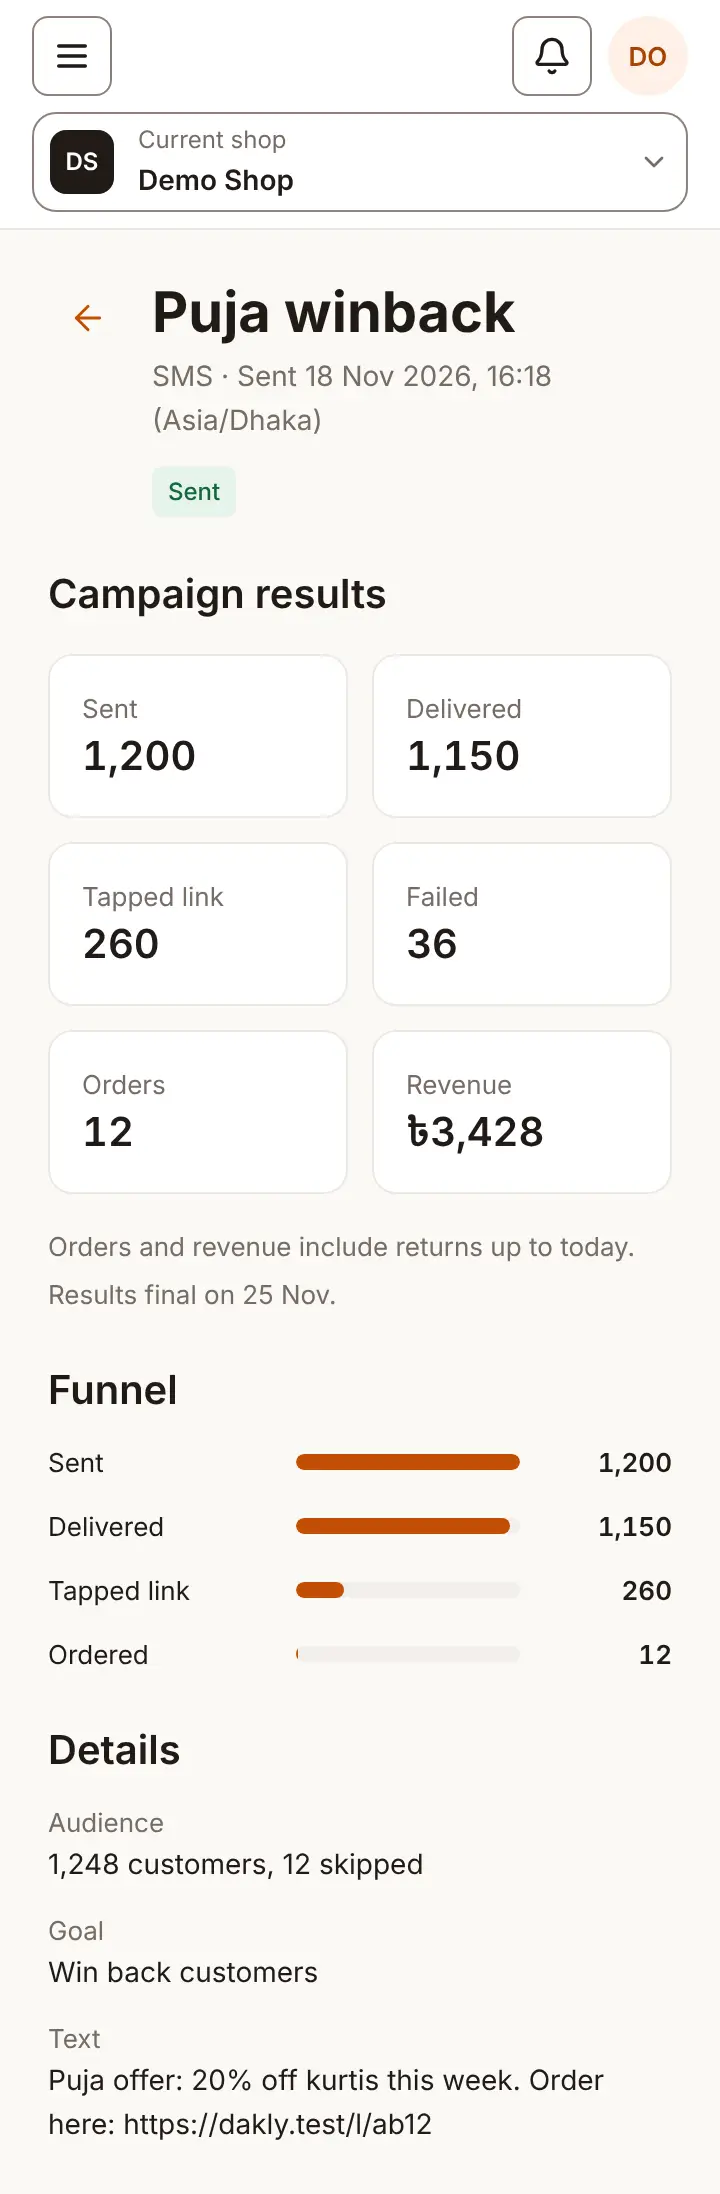
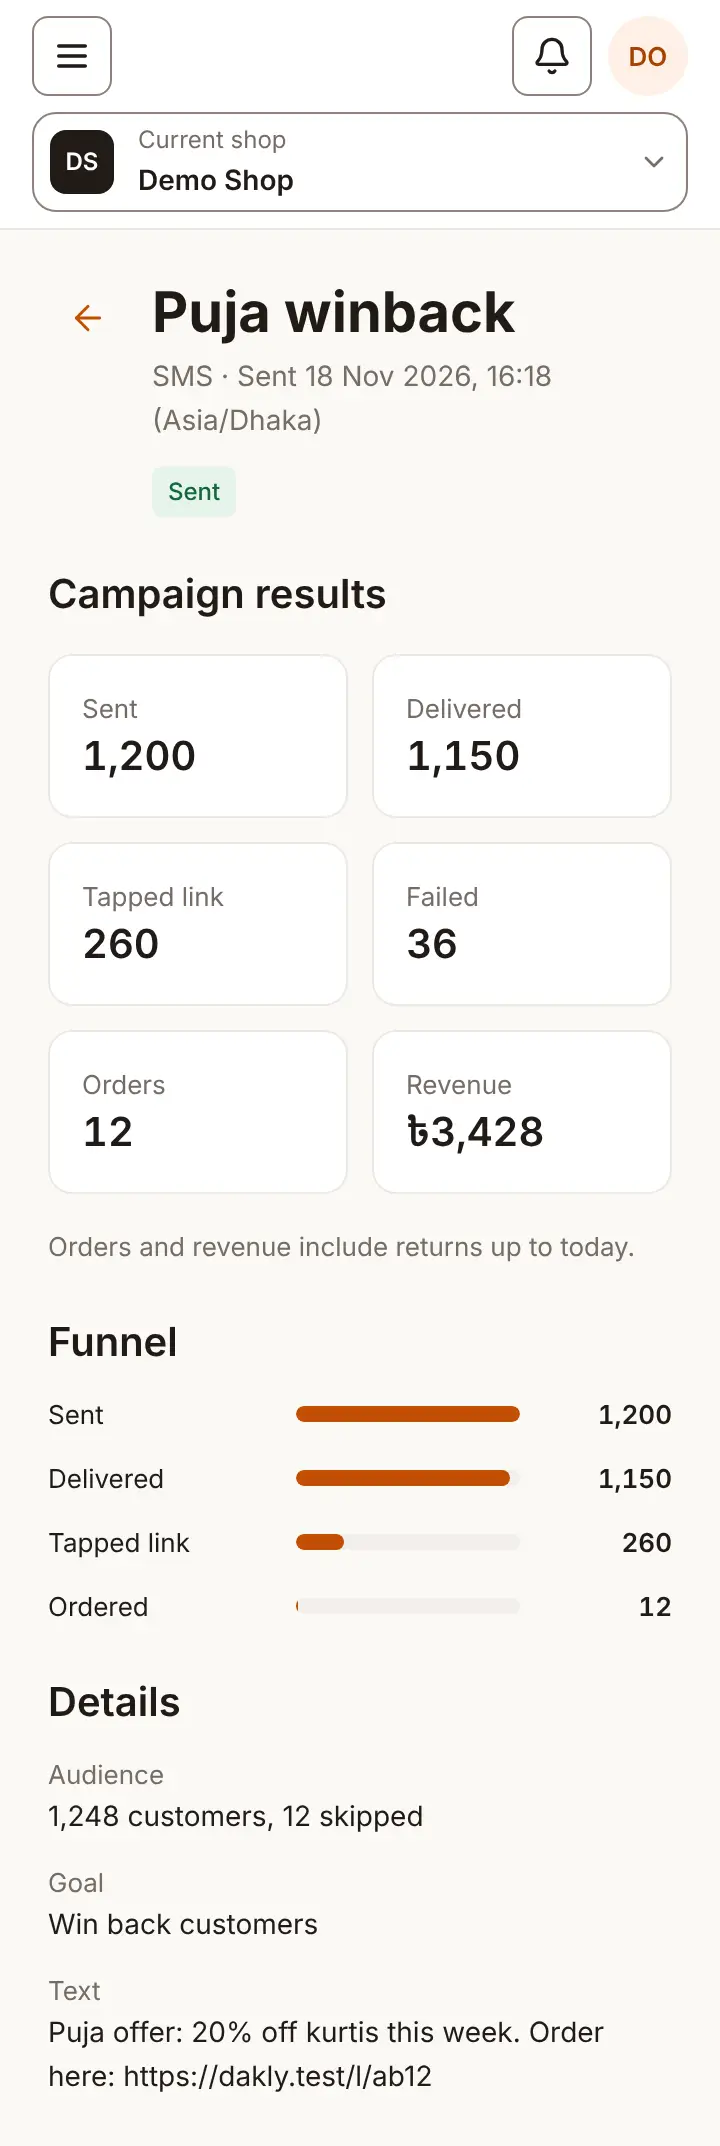
fix(camp-4): decide results by started time and drop the final date note
A campaign that never started keeps the builder summary. The Results final note needs the shop's attribution window, which the campaign page cannot read, so it is removed and listed as waiting. The page header moves to its own file.

diff --git a/apps/web/src/features/campaigns/components/campaign-builder.tsx b/apps/web/src/features/campaigns/components/campaign-builder.tsx
@@ -1,10 +1,9 @@
 'use client';
 
 import { zodResolver } from '@hookform/resolvers/zod';
-import { ArrowLeft, MessageSquare } from 'lucide-react';
-import Link from 'next/link';
+import { MessageSquare } from 'lucide-react';
 import { useRouter } from 'next/navigation';
-import { useId, useState, type ReactNode } from 'react';
+import { useId, useState } from 'react';
 import { FormProvider, useForm, useFormContext } from 'react-hook-form';
 import type { z } from 'zod';
 
@@ -15,7 +14,6 @@ import {
 } from '@dakly/contracts/campaigns';
 import { Badge } from '@dakly/ui/badge';
 import { Button } from '@dakly/ui/button';
-import { cn } from '@dakly/ui/cn';
 import { FormField } from '@dakly/ui/form-field';
 import { Input } from '@dakly/ui/input';
 
@@ -27,6 +25,7 @@ import {
   campaignStatusLabels,
 } from '../campaign-labels';
 import { CampaignChannelCards } from './campaign-channel-cards';
+import { CampaignPageHeader } from './campaign-page-header';
 import { formatDateTime } from '@/lib/format-date';
 import { useSessionContext } from '@/lib/session-context';
 
@@ -42,7 +41,7 @@ export function CampaignBuilder({ campaign }: { campaign?: CampaignResponse }) {
   const editable = canEdit && campaign.status === 'draft';
   return (
     <main className="space-y-6 p-6 md:p-8">
-      <BuilderHeader
+      <CampaignPageHeader
         title={campaign.name}
         subtitle={editable ? 'Nothing is sent until you approve.' : 'Campaign summary'}
       />
@@ -65,7 +64,7 @@ function NewCampaignBuilder() {
         <CampaignDetailsForm onBack={() => setStep('channels')} />
       ) : (
         <>
-          <BuilderHeader title="New campaign" subtitle={newCampaignSubtitle} />
+          <CampaignPageHeader title="New campaign" subtitle={newCampaignSubtitle} />
           <CampaignChannelCards
             focusSms={step === 'channels'}
             onChooseSms={() => setStep('details')}
@@ -73,55 +72,6 @@ function NewCampaignBuilder() {
         </>
       )}
     </main>
-  );
-}
-
-export function BuilderHeader({
-  title,
-  subtitle,
-  onBack,
-  backDisabled,
-  action,
-}: {
-  title: string;
-  subtitle: string;
-  onBack?: () => void;
-  backDisabled?: boolean;
-  action?: ReactNode;
-}) {
-  const backIcon = <ArrowLeft aria-hidden="true" size={20} strokeWidth={1.75} />;
-  return (
-    <header
-      className={cn(
-        'grid grid-cols-[auto_minmax(0,1fr)] items-start gap-x-3',
-        action && 'sm:grid-cols-[auto_minmax(0,1fr)_auto]',
-      )}
-    >
-      {onBack ? (
-        <Button
-          aria-label="Back to channels"
-          variant="secondary"
-          className="row-span-2 px-2"
-          onClick={onBack}
-          disabled={backDisabled}
-        >
-          {backIcon}
-        </Button>
-      ) : (
-        <Link
-          href="/campaigns"
-          aria-label="Back to campaigns"
-          className="row-span-2 inline-flex size-10 items-center justify-center rounded-md text-action hover:bg-primary-soft focus-visible:outline-2 focus-visible:outline-offset-2 focus-visible:outline-focus"
-        >
-          {backIcon}
-        </Link>
-      )}
-      <h1 className="text-xl font-bold break-words">{title}</h1>
-      <p className="col-start-2 mt-1 text-text-muted">{subtitle}</p>
-      {action && (
-        <div className="col-start-2 mt-3 sm:col-start-3 sm:row-start-1 sm:mt-0">{action}</div>
-      )}
-    </header>
   );
 }
 
@@ -188,7 +138,7 @@ function CampaignDetailsForm({
   return (
     <>
       {!campaign && (
-        <BuilderHeader
+        <CampaignPageHeader
           title="New campaign"
           subtitle={newCampaignSubtitle}
           onBack={onBack}

diff --git a/apps/web/src/features/campaigns/components/campaign-detail.spec.tsx b/apps/web/src/features/campaigns/components/campaign-detail.spec.tsx
@@ -1,0 +1,90 @@
+// @vitest-environment jsdom
+import { QueryClient, QueryClientProvider } from '@tanstack/react-query';
+import { cleanup, render, screen } from '@testing-library/react';
+import { afterEach, describe, expect, it, vi } from 'vitest';
+
+import type { CampaignResponse } from '@dakly/contracts/campaigns';
+import type { SessionContext } from '@dakly/contracts/sessions';
+
+import { CampaignDetail } from './campaign-detail';
+import { sessionContextKey } from '@/lib/session-context';
+
+vi.mock('next/navigation', () => ({ useRouter: () => ({ push: vi.fn() }) }));
+
+const campaignId = '0193a3c0-7b1e-7c3a-9f00-5a1b2c3d4e71';
+const base: CampaignResponse = {
+  id: campaignId,
+  name: 'Puja winback',
+  goal: 'win_back',
+  channel: 'sms',
+  content: { text: 'Come back this week for our Puja collection.' },
+  includeSegmentIds: [],
+  excludeSegmentIds: [],
+  scheduledFor: null,
+  status: 'sent',
+  approval: null,
+  approvalFailureCode: null,
+  startedAt: '2026-11-01T04:00:00Z',
+  finishedAt: '2026-11-01T05:00:00Z',
+  counts: {
+    recipients: 100,
+    skipped: 0,
+    sent: 100,
+    delivered: 98,
+    read: 0,
+    tapped: 20,
+    failed: 2,
+    countedAt: '2026-11-01T05:01:00Z',
+  },
+  attribution: { orders: '3', revenuePoisha: '120000' },
+  createdAt: '2026-10-30T04:00:00Z',
+  updatedAt: '2026-11-01T05:00:00Z',
+};
+
+function show(campaign: CampaignResponse) {
+  vi.stubGlobal('fetch', async () =>
+    Response.json(campaign, { headers: { 'x-session-context': 'verified' } }),
+  );
+  const client = new QueryClient({ defaultOptions: { queries: { retry: false } } });
+  const context = {
+    user: { id: 'member', name: 'Member' },
+    currentStore: { storeId: 'shop', name: 'Shop', canViewCampaigns: true },
+    contextTag: 'verified',
+    hasMemberships: true,
+  } as unknown as SessionContext;
+  client.setQueryData(sessionContextKey, context);
+  render(
+    <QueryClientProvider client={client}>
+      <CampaignDetail campaignId={campaignId} />
+    </QueryClientProvider>,
+  );
+}
+
+afterEach(() => {
+  cleanup();
+  vi.unstubAllGlobals();
+});
+
+describe('Campaign detail', () => {
+  it('opens the results page for a campaign that started sending', async () => {
+    show(base);
+    expect(await screen.findByRole('heading', { name: 'Campaign results' })).toBeTruthy();
+  });
+
+  it('keeps the summary for a campaign cancelled before it started', async () => {
+    show({
+      ...base,
+      status: 'cancelled',
+      startedAt: null,
+      finishedAt: null,
+      attribution: undefined,
+    });
+    expect(await screen.findByRole('region', { name: 'Saved campaign' })).toBeTruthy();
+    expect(screen.queryByRole('heading', { name: 'Campaign results' })).toBeNull();
+  });
+
+  it('opens the results page for a campaign cancelled after it started', async () => {
+    show({ ...base, status: 'cancelled', finishedAt: null });
+    expect(await screen.findByRole('heading', { name: 'Campaign results' })).toBeTruthy();
+  });
+});

diff --git a/apps/web/src/features/campaigns/components/campaign-results.tsx b/apps/web/src/features/campaigns/components/campaign-results.tsx
@@ -7,14 +7,10 @@ import {
   campaignStatusColors,
   campaignStatusLabels,
 } from '../campaign-labels';
-import { BuilderHeader } from './campaign-builder';
 import { CampaignFunnel } from './campaign-funnel';
-import { formatDate, formatDateTime } from '@/lib/format-date';
+import { CampaignPageHeader } from './campaign-page-header';
+import { formatDateTime } from '@/lib/format-date';
 import { formatCount, formatMoney } from '@/lib/format-money';
-
-const DAY_MS = 24 * 60 * 60 * 1000;
-// Orders count towards a campaign for 7 days after it finishes (feature 09, States).
-const ORDER_WINDOW_DAYS = 7;
 
 export function CampaignResults({ campaign }: { campaign: CampaignResponse }) {
   const { counts, channel } = campaign;
@@ -33,7 +29,7 @@ export function CampaignResults({ campaign }: { campaign: CampaignResponse }) {
   ];
   return (
     <main className="space-y-6 p-6 md:p-8">
-      <BuilderHeader
+      <CampaignPageHeader
         title={campaign.name}
         subtitle={`${campaignChannelLabels[channel]} · ${whenSent(campaign)}`}
         action={
@@ -83,16 +79,9 @@ function whenSent({ status, startedAt, finishedAt, createdAt }: CampaignResponse
 }
 
 function ResultNotes({ campaign }: { campaign: CampaignResponse }) {
-  const finalOn = campaign.finishedAt
-    ? new Date(Date.parse(campaign.finishedAt) + ORDER_WINDOW_DAYS * DAY_MS)
-    : undefined;
-  const now = new Date();
   return (
     <div className="space-y-1 text-sm text-text-muted">
       <p>Orders and revenue include returns up to today.</p>
-      {finalOn && finalOn > now ? (
-        <p>Results final on {formatDate(finalOn.toISOString(), now.toISOString())}.</p>
-      ) : null}
       {campaign.counts.countedAt === null ? <p role="status">Counts are being updated.</p> : null}
     </div>
   );
@@ -100,8 +89,10 @@ function ResultNotes({ campaign }: { campaign: CampaignResponse }) {
 
 function CampaignMessage({ campaign }: { campaign: CampaignResponse }) {
   return (
-    <section aria-label="Saved campaign" className="max-w-xl space-y-3">
-      <h2 className="text-lg font-semibold">Details</h2>
+    <section aria-labelledby="details-heading" className="max-w-xl space-y-3">
+      <h2 id="details-heading" className="text-lg font-semibold">
+        Details
+      </h2>
       <dl className="space-y-3">
         <div>
           <dt className="text-sm text-text-muted">Audience</dt>

diff --git a/apps/web/src/features/campaigns/components/campaign-page-header.tsx b/apps/web/src/features/campaigns/components/campaign-page-header.tsx
@@ -1,0 +1,55 @@
+import { ArrowLeft } from 'lucide-react';
+import Link from 'next/link';
+import type { ReactNode } from 'react';
+
+import { Button } from '@dakly/ui/button';
+import { cn } from '@dakly/ui/cn';
+
+export function CampaignPageHeader({
+  title,
+  subtitle,
+  onBack,
+  backDisabled,
+  action,
+}: {
+  title: string;
+  subtitle: string;
+  onBack?: () => void;
+  backDisabled?: boolean;
+  action?: ReactNode;
+}) {
+  const backIcon = <ArrowLeft aria-hidden="true" size={20} strokeWidth={1.75} />;
+  return (
+    <header
+      className={cn(
+        'grid grid-cols-[auto_minmax(0,1fr)] items-start gap-x-3',
+        action && 'sm:grid-cols-[auto_minmax(0,1fr)_auto]',
+      )}
+    >
+      {onBack ? (
+        <Button
+          aria-label="Back to channels"
+          variant="secondary"
+          className="row-span-2 px-2"
+          onClick={onBack}
+          disabled={backDisabled}
+        >
+          {backIcon}
+        </Button>
+      ) : (
+        <Link
+          href="/campaigns"
+          aria-label="Back to campaigns"
+          className="row-span-2 inline-flex size-10 items-center justify-center rounded-md text-action hover:bg-primary-soft focus-visible:outline-2 focus-visible:outline-offset-2 focus-visible:outline-focus"
+        >
+          {backIcon}
+        </Link>
+      )}
+      <h1 className="text-xl font-bold break-words">{title}</h1>
+      <p className="col-start-2 mt-1 text-text-muted">{subtitle}</p>
+      {action && (
+        <div className="col-start-2 mt-3 sm:col-start-3 sm:row-start-1 sm:mt-0">{action}</div>
+      )}
+    </header>
+  );
+}

diff --git a/apps/web/src/features/campaigns/components/campaign-detail.tsx b/apps/web/src/features/campaigns/components/campaign-detail.tsx
@@ -3,7 +3,6 @@
 import { Button } from '@dakly/ui/button';
 
 import { useCampaign } from '../api/get-campaign';
-import { hasCampaignResults } from '../campaign-labels';
 import { CampaignBuilder } from './campaign-builder';
 import { CampaignLoading } from './campaign-loading';
 import { CampaignResults } from './campaign-results';
@@ -26,6 +25,7 @@ export function CampaignDetail({ campaignId }: { campaignId: string }) {
         Campaign not found
       </p>
     );
-  if (hasCampaignResults(campaign.data.status)) return <CampaignResults campaign={campaign.data} />;
+  // A campaign cancelled before it sent anything has no results to show.
+  if (campaign.data.startedAt !== null) return <CampaignResults campaign={campaign.data} />;
   return <CampaignBuilder key={campaign.data.id} campaign={campaign.data} />;
 }

diff --git a/apps/web/src/features/segments/components/segment-builder.tsx b/apps/web/src/features/segments/components/segment-builder.tsx
@@ -54,7 +54,7 @@ export function SegmentBuilder({ segment, listHref }: SegmentBuilderProps) {
   return (
     <FormProvider {...form}>
       <form onSubmit={handleSubmit} className="space-y-6 p-4 md:p-8">
-        <SegmentBuilderHeader
+        <SegmentCampaignPageHeader
           segment={segment}
           listHref={listHref}
           isPending={create.isPending || change.isPending}
@@ -89,7 +89,7 @@ export function SegmentBuilder({ segment, listHref }: SegmentBuilderProps) {
   );
 }
 
-function SegmentBuilderHeader({
+function SegmentCampaignPageHeader({
   segment,
   listHref,
   isPending,

diff --git a/apps/web/e2e/campaign-list.spec.ts b/apps/web/e2e/campaign-list.spec.ts
@@ -64,7 +64,7 @@ test('finds a campaign, opens its builder and reads a sent campaign summary', as
     const draft = await create('Winter Kurti collection');
     const sent = await create('Puja winback');
     await database.pool.query(
-      "update campaigns set status='sent', finished_at=now() where store_id=$1 and id=$2",
+      "update campaigns set status='sent', started_at=now(), finished_at=now() where store_id=$1 and id=$2",
       [storeId, sent],
     );
 

diff --git a/apps/web/src/features/campaigns/campaign-labels.ts b/apps/web/src/features/campaigns/campaign-labels.ts
@@ -43,7 +43,3 @@ export const campaignGoalLabels: Record<CampaignGoal, string> = {
   seasonal: 'Seasonal campaign',
   from_scratch: 'Start from scratch',
 };
-
-// Campaigns that have started sending show their results, not the builder summary.
-const resultStatuses: CampaignStatus[] = ['sending', 'paused', 'sent', 'failed', 'cancelled'];
-export const hasCampaignResults = (status: CampaignStatus) => resultStatuses.includes(status);

diff --git a/docs/features/09-campaigns-and-automations.md b/docs/features/09-campaigns-and-automations.md
@@ -250,13 +250,13 @@ The campaign list keeps Search and Status above the rows. Filters opens Channel 
 
 New campaigns start with the channel choices. SMS opens the name and goal step, where staff save a draft. WhatsApp, Facebook Messenger and Instagram DM show Connect first until those channels support campaigns. The picker has no recipient count before a draft exists. The SMS estimate reads a saved campaign. Voice calls stay hidden in release 1.
 
-The results page (`/campaigns/<id>`, CAMP-4) reads the campaign detail response and does no report maths in the browser. The header shows the name, channel, the sent or started time and the status. Result cards show sent, delivered, read (WhatsApp only, an SMS has no read receipt), tapped link, failed, orders and revenue. Orders and revenue are the attribution rollups from the API and show 0 until an order is attributed. A funnel repeats sent, delivered, read, tapped and ordered as bars next to their counts. Notes say that orders and revenue include returns up to today, show "Results final on <date>" until 7 days after the campaign finished, and say "Counts are being updated." while the API has no count time. Details show the audience count and skipped count, the goal and the message text.
+The results page (`/campaigns/<id>`, CAMP-4) reads the campaign detail response and does no report maths in the browser. The header shows the name, channel, the sent or started time and the status. Result cards show sent, delivered, read (WhatsApp only, an SMS has no read receipt), tapped link, failed, orders and revenue. Orders and revenue are the attribution rollups from the API and show 0 until an order is attributed. A funnel repeats sent, delivered, read, tapped and ordered as bars next to their counts. Notes say that orders and revenue include returns up to today, and "Counts are being updated." while the API has no count time. Details show the audience count and skipped count, the goal and the message text.
 
-Not on the page yet, because no route gives the data: cost and return per ৳1 (the detail response has no cost), the lists of customers by outcome (ordered, tapped, read, delivered, failed) and who ordered with value and date, failures grouped by reason with "Send by SMS", the segment names of the audience, the template name, and the actions Resend to people who didn't read, Duplicate, Create follow-up, Send again and Delete.
+Not on the page yet, because no route gives the data: "Results final on <date>" until the shop's attribution window after the campaign finished (the window is read at `GET /store/attribution`, which needs Analytics view, and the session has no flag for it), cost and return per ৳1 (the detail response has no cost), the lists of customers by outcome (ordered, tapped, read, delivered, failed) and who ordered with value and date, failures grouped by reason with "Send by SMS", the segment names of the audience, the template name, and the actions Resend to people who didn't read, Duplicate, Create follow-up, Send again and Delete.
 
 The first builder slice opens an SMS draft, saves its name and goal, and shows a read-only summary for a sent campaign. It sends only changed fields, resets the form to the saved values on success, and shows a server error if a save is refused. After creating a draft, the form stays locked while the builder opens. Content, audience, scheduling and approval controls follow separately.
 
-Each campaign row, or card on phones, opens the builder for a draft, the read-only summary while the campaign waits for approval, approves or is scheduled, and the results page once it is sending, paused, sent, failed or cancelled. The list filters by name, status, channel and creation date in the shop time zone, and shows campaigns newest first. Each row or card shows the saved channel. The First page link recovers an unavailable cursor, including a cursor saved for another shop. Create campaign is available to members who can edit campaigns in that shop.
+Each campaign row, or card on phones, opens the builder for a draft, the read-only summary while the campaign waits for approval, approves or is scheduled, and the results page once it has started sending. A campaign cancelled before it sent anything keeps the summary. The list filters by name, status, channel and creation date in the shop time zone, and shows campaigns newest first. Each row or card shows the saved channel. The First page link recovers an unavailable cursor, including a cursor saved for another shop. Create campaign is available to members who can edit campaigns in that shop.
 
 **Why it's needed.** Clicking a campaign in the Campaigns list does nothing. Shop owners send a campaign and then want to know if it worked and who bought. The Dashboard, Analytics and notifications ("Kurti campaign earned ৳1,86,900 · Send it again") all point to a page that doesn't exist.
 
